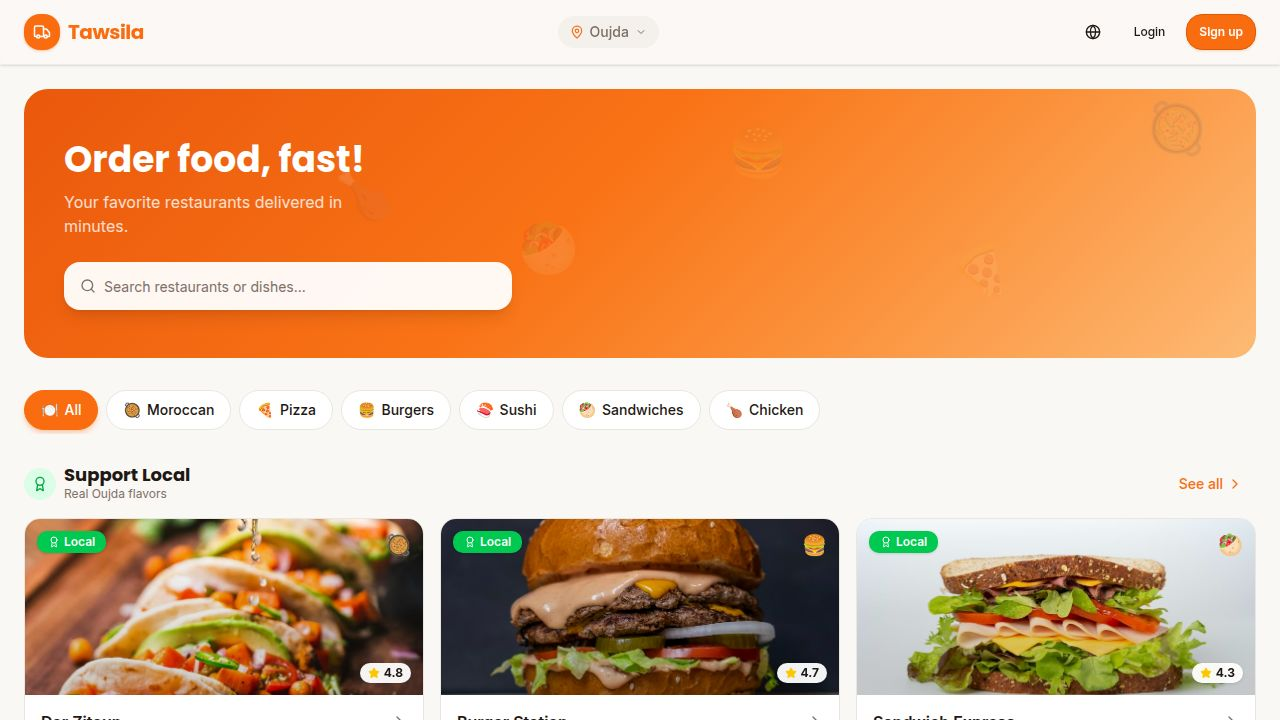
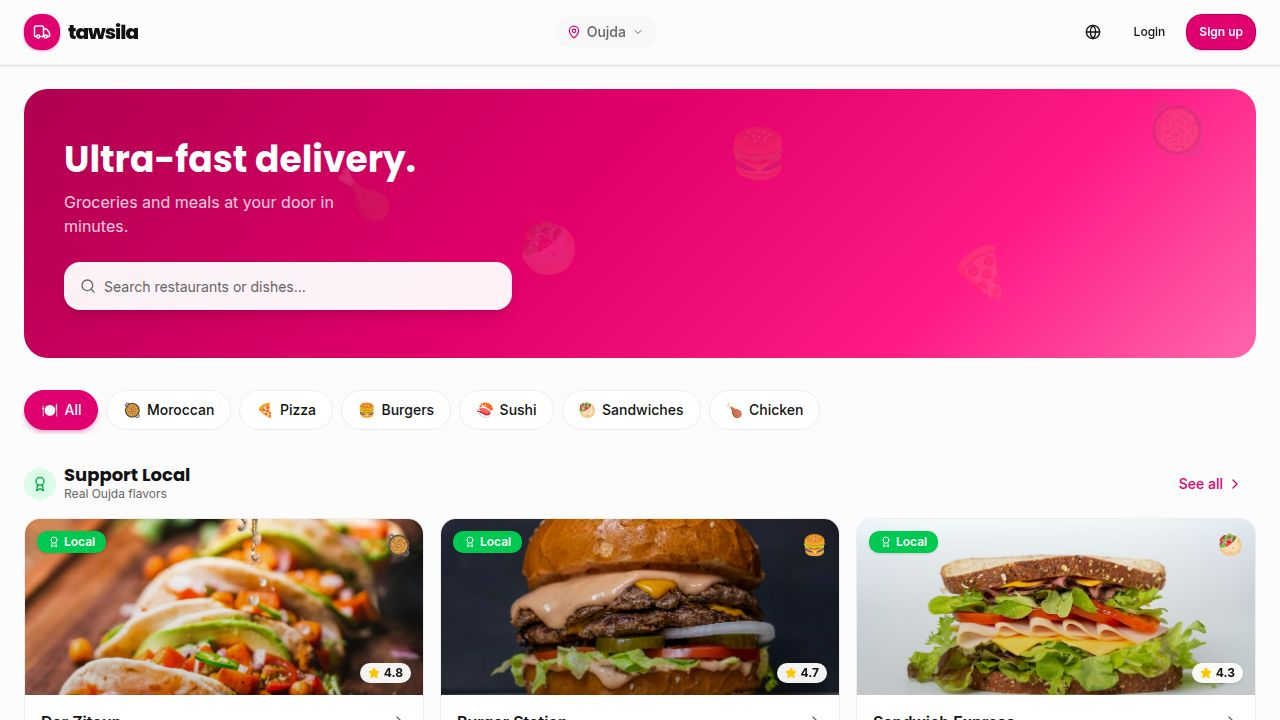
Rebrand Tawsila to Flink-style hot-pink visual identity
Task #2 — applied Flink quick-commerce visual identity across both
the food-delivery web app and the tawsila-mobile Expo app while
keeping the "Tawsila" product name.

Design tokens (light + dark modes):
- Primary brand color: hot pink/magenta — HSL 330 100% 44% (#E2006A)
  light, 330 100% 52% (#FF1A85) dark.
- Background: clean off-white (#FCFCFC) / near-black (#0F0F0F).
- Cards: pure white with very light grey borders for that crisp
  Flink card look.
- Accent: pink-tinted pale background (#FFE5F0) for badges/icons.
- Removed warm cream/Moroccan tones in favor of neutral whites/blacks.

Files changed:
- artifacts/food-delivery/src/index.css — light + dark CSS variables.
- artifacts/tawsila-mobile/constants/colors.ts — full palette swap,
  radius bumped 12→14 for slightly softer Flink-style corners.
- artifacts/food-delivery/src/components/Layout.tsx — bolder lowercase
  "tawsila" wordmark, rounded-2xl logo tile, removed orange icon tint.
- artifacts/food-delivery/src/components/RestaurantCard.tsx — placeholder
  gradient now pink instead of orange.
- artifacts/food-delivery/src/pages/home.tsx — hero gradient changed
  to magenta→pink, removed orange-only icon background class.
- artifacts/food-delivery/src/pages/{orders,restaurant,admin/*,restaurant-panel/*}.tsx —
  replaced bg-orange-* / text-orange-* utilities with primary/accent
  tokens or amber for "preparing" status badges.
- artifacts/food-delivery/src/components/DeliveryMap.tsx — driver pin pink.
[…]

diff --git a/artifacts/food-delivery/src/index.css b/artifacts/food-delivery/src/index.css
@@ -67,7 +67,7 @@
   --radius-xl: calc(var(--radius) + 4px);
 }
 
-/* LIGHT MODE — Warm Moroccan-inspired palette */
+/* LIGHT MODE — Quick-commerce hot-pink palette */
 :root {
   --button-outline: rgba(0,0,0, .10);
   --badge-outline: rgba(0,0,0, .05);
@@ -75,49 +75,49 @@
   --elevate-1: rgba(0,0,0, .03);
   --elevate-2: rgba(0,0,0, .08);
 
-  /* Warm cream background */
-  --background: 35 30% 97%;
-  --foreground: 20 20% 10%;
-  --border: 30 20% 88%;
+  /* Clean off-white background */
+  --background: 0 0% 99%;
+  --foreground: 0 0% 7%;
+  --border: 0 0% 92%;
 
-  /* Card: white with warm tint */
+  /* Card: pure white */
   --card: 0 0% 100%;
-  --card-foreground: 20 20% 10%;
-  --card-border: 30 15% 90%;
+  --card-foreground: 0 0% 7%;
+  --card-border: 0 0% 93%;
 
-  --sidebar: 35 25% 95%;
-  --sidebar-foreground: 20 20% 12%;
-  --sidebar-border: 30 20% 88%;
-  --sidebar-primary: 24 95% 52%;
+  --sidebar: 0 0% 98%;
+  --sidebar-foreground: 0 0% 10%;
+  --sidebar-border: 0 0% 92%;
+  --sidebar-primary: 330 100% 44%;
   --sidebar-primary-foreground: 0 0% 100%;
-  --sidebar-accent: 35 25% 90%;
-  --sidebar-accent-foreground: 20 20% 12%;
-  --sidebar-ring: 24 95% 52%;
+  --sidebar-accent: 0 0% 95%;
+  --sidebar-accent-foreground: 0 0% 10%;
+  --sidebar-ring: 330 100% 44%;
 
   --popover: 0 0% 100%;
-  --popover-foreground: 20 20% 10%;
-  --popover-border: 30 15% 90%;
+  --popover-foreground: 0 0% 7%;
+  --popover-border: 0 0% 93%;
 
-  /* Vibrant saffron/orange as primary */
-  --primary: 24 95% 52%;
+  /* Hot pink/magenta as primary */
+  --primary: 330 100% 44%;
   --primary-foreground: 0 0% 100%;
 
-  --secondary: 35 25% 92%;
-  --secondary-foreground: 20 20% 10%;
+  --secondary: 0 0% 96%;
+  --secondary-foreground: 0 0% 7%;
 
-  --muted: 35 20% 93%;
-  --muted-foreground: 20 10% 45%;
+  --muted: 0 0% 96%;
+  --muted-foreground: 0 0% 40%;
 
-  --accent: 24 80% 96%;
-  --accent-foreground: 24 95% 42%;
+  --accent: 330 100% 97%;
+  --accent-foreground: 330 100% 38%;
 
   --destructive: 0 84% 60%;
   --destructive-foreground: 0 0% 100%;
 
-  --input: 30 20% 88%;
-  --ring: 24 95% 52%;
+  --input: 0 0% 92%;
+  --ring: 330 100% 44%;
 
-  --chart-1: 24 95% 52%;
+  --chart-1: 330 100% 44%;
   --chart-2: 142 72% 42%;
   --chart-3: 200 80% 50%;
   --chart-4: 280 60% 55%;
@@ -162,46 +162,46 @@
   --elevate-1: rgba(255,255,255, .04);
   --elevate-2: rgba(255,255,255, .09);
 
-  --background: 20 15% 8%;
-  --foreground: 35 20% 95%;
-  --border: 20 10% 18%;
+  --background: 0 0% 6%;
+  --foreground: 0 0% 96%;
+  --border: 0 0% 16%;
 
-  --card: 20 12% 11%;
-  --card-foreground: 35 20% 95%;
-  --card-border: 20 10% 18%;
+  --card: 0 0% 9%;
+  --card-foreground: 0 0% 96%;
+  --card-border: 0 0% 16%;
 
-  --sidebar: 20 12% 9%;
-  --sidebar-foreground: 35 20% 92%;
-  --sidebar-border: 20 10% 16%;
-  --sidebar-primary: 24 95% 55%;
+  --sidebar: 0 0% 7%;
+  --sidebar-foreground: 0 0% 92%;
+  --sidebar-border: 0 0% 14%;
+  --sidebar-primary: 330 100% 52%;
   --sidebar-primary-foreground: 0 0% 100%;
-  --sidebar-accent: 20 12% 14%;
-  --sidebar-accent-foreground: 35 20% 92%;
-  --sidebar-ring: 24 95% 55%;
+  --sidebar-accent: 0 0% 12%;
+  --sidebar-accent-foreground: 0 0% 92%;
+  --sidebar-ring: 330 100% 52%;
 
-  --popover: 20 12% 11%;
-  --popover-foreground: 35 20% 95%;
-  --popover-border: 20 10% 18%;
+  --popover: 0 0% 9%;
+  --popover-foreground: 0 0% 96%;
+  --popover-border: 0 0% 16%;
 
-  --primary: 24 95% 55%;
+  --primary: 330 100% 52%;
   --primary-foreground: 0 0% 100%;
 
-  --secondary: 20 12% 15%;
-  --secondary-foreground: 35 20% 95%;
+  --secondary: 0 0% 13%;
+  --secondary-foreground: 0 0% 96%;
 
-  --muted: 20 10% 14%;
-  --muted-foreground: 20 10% 60%;
+  --muted: 0 0% 12%;
+  --muted-foreground: 0 0% 62%;
 
-  --accent: 24 40% 15%;
-  --accent-foreground: 24 95% 60%;
+  --accent: 330 50% 16%;
+  --accent-foreground: 330 100% 70%;
 
   --destructive: 0 75% 55%;
   --destructive-foreground: 0 0% 100%;
 
-  --input: 20 10% 20%;
-  --ring: 24 95% 55%;
+  --input: 0 0% 18%;
+  --ring: 330 100% 52%;
 
-  --chart-1: 24 95% 55%;
+  --chart-1: 330 100% 52%;
   --chart-2: 142 72% 45%;
   --chart-3: 200 80% 55%;
   --chart-4: 280 60% 60%;

diff --git a/artifacts/tawsila-mobile/constants/colors.ts b/artifacts/tawsila-mobile/constants/colors.ts
@@ -1,50 +1,50 @@
-// Moroccan-inspired palette — synced from food-delivery web artifact
+// Quick-commerce hot-pink palette — synced from food-delivery web artifact
 const colors = {
   light: {
-    text: "#1E1813",
-    tint: "#F97316",
-    background: "#FAF8F5",
-    foreground: "#1E1813",
+    text: "#121212",
+    tint: "#E2006A",
+    background: "#FCFCFC",
+    foreground: "#121212",
     card: "#FFFFFF",
-    cardForeground: "#1E1813",
-    primary: "#F97316",
+    cardForeground: "#121212",
+    primary: "#E2006A",
     primaryForeground: "#FFFFFF",
-    secondary: "#EDE7DF",
-    secondaryForeground: "#1E1813",
-    muted: "#F0EDE8",
-    mutedForeground: "#7D726B",
-    accent: "#FEF0E7",
-    accentForeground: "#C65E0F",
+    secondary: "#F5F5F5",
+    secondaryForeground: "#121212",
+    muted: "#F5F5F5",
+    mutedForeground: "#666666",
+    accent: "#FFE5F0",
+    accentForeground: "#B0004F",
     destructive: "#EF4444",
     destructiveForeground: "#FFFFFF",
-    border: "#E4D8CE",
-    input: "#E4D8CE",
+    border: "#EBEBEB",
+    input: "#EBEBEB",
     success: "#22C55E",
     warning: "#F59E0B",
   },
   dark: {
-    text: "#F0EDE8",
-    tint: "#F97316",
-    background: "#1A1510",
-    foreground: "#F0EDE8",
-    card: "#241E18",
-    cardForeground: "#F0EDE8",
-    primary: "#F97316",
+    text: "#F5F5F5",
+    tint: "#FF1A85",
+    background: "#0F0F0F",
+    foreground: "#F5F5F5",
+    card: "#171717",
+    cardForeground: "#F5F5F5",
+    primary: "#FF1A85",
     primaryForeground: "#FFFFFF",
-    secondary: "#2D2720",
-    secondaryForeground: "#F0EDE8",
-    muted: "#2D2720",
-    mutedForeground: "#9E968F",
-    accent: "#3D2A18",
-    accentForeground: "#FDB97E",
+    secondary: "#212121",
+    secondaryForeground: "#F5F5F5",
+    muted: "#1F1F1F",
+    mutedForeground: "#9E9E9E",
+    accent: "#3D0E26",
+    accentForeground: "#FF6BB0",
     destructive: "#EF4444",
     destructiveForeground: "#FFFFFF",
-    border: "#3D3530",
-    input: "#3D3530",
+    border: "#2A2A2A",
+    input: "#2A2A2A",
     success: "#22C55E",
     warning: "#F59E0B",
   },
-  radius: 12,
+  radius: 14,
 };
 
 export default colors;

diff --git a/artifacts/food-delivery/src/components/Layout.tsx b/artifacts/food-delivery/src/components/Layout.tsx
@@ -49,11 +49,11 @@ export function Layout({ children }: LayoutProps) {
       <header className="sticky top-0 z-50 bg-background/85 backdrop-blur-xl border-b border-border/50 shadow-sm">
         <div className="max-w-7xl mx-auto px-4 sm:px-6 h-16 flex items-center justify-between gap-4">
           {/* Logo */}
-          <Link href="/" className="flex items-center gap-2 font-display font-bold text-xl text-primary shrink-0">
-            <div className="w-9 h-9 bg-primary rounded-xl flex items-center justify-center shadow-sm shadow-primary/30">
-              <Truck className="w-4.5 h-4.5 text-white" style={{ width: "18px", height: "18px" }} />
+          <Link href="/" className="flex items-center gap-2 font-display font-extrabold text-xl text-primary shrink-0">
+            <div className="w-9 h-9 bg-primary rounded-2xl flex items-center justify-center shadow-sm shadow-primary/30">
+              <Truck className="text-white" style={{ width: "18px", height: "18px" }} />
             </div>
-            <span className="tracking-tight">Tawsila</span>
+            <span className="tracking-tighter lowercase text-foreground">tawsila</span>
           </Link>
 
           {/* Location pill */}
@@ -136,7 +136,7 @@ export function Layout({ children }: LayoutProps) {
                     <Home className="w-4 h-4 text-primary" /> {t("nav.customerView")}
                   </DropdownMenuItem>
                   <DropdownMenuItem onClick={() => setLocation("/restaurant/dashboard")} className="rounded-xl gap-2.5 py-2.5" data-testid="menu-item-restaurant">
-                    <Store className="w-4 h-4 text-orange-500" /> {t("nav.restaurantPanel")}
+                    <Store className="w-4 h-4 text-primary" /> {t("nav.restaurantPanel")}
                   </DropdownMenuItem>
                   <DropdownMenuItem onClick={() => setLocation("/driver/dashboard")} className="rounded-xl gap-2.5 py-2.5" data-testid="menu-item-driver">
                     <Truck className="w-4 h-4 text-blue-500" /> {t("nav.driverApp")}

diff --git a/artifacts/food-delivery/src/pages/restaurant-panel/dashboard.tsx b/artifacts/food-delivery/src/pages/restaurant-panel/dashboard.tsx
@@ -12,7 +12,7 @@ import { useTranslation } from "react-i18next";
 const statusColors: Record<string, string> = {
   pending: "bg-yellow-100 text-yellow-700 border-yellow-200",
   accepted: "bg-blue-100 text-blue-700 border-blue-200",
-  preparing: "bg-orange-100 text-orange-700 border-orange-200",
+  preparing: "bg-amber-100 text-amber-700 border-amber-200 dark:bg-amber-900/30 dark:text-amber-400 dark:border-amber-800/40",
   ready: "bg-purple-100 text-purple-700 border-purple-200",
   picked_up: "bg-indigo-100 text-indigo-700 border-indigo-200",
   delivered: "bg-green-100 text-green-700 border-green-200",
@@ -48,7 +48,7 @@ function ActionButtons({ order, onAction }: {
       return (
         <Button
           size="sm"
-          className="bg-orange-500 hover:bg-orange-600 text-white gap-1.5 font-semibold shrink-0"
+          className="bg-primary hover:bg-primary/90 text-white gap-1.5 font-semibold shrink-0"
           onClick={() => onAction(order.id, "preparing")}
         >
           <ChefHat className="w-4 h-4" /> Start Preparing
@@ -233,7 +233,7 @@ export default function RestaurantDashboardPage() {
           )}
         </div>
         <div className="bg-card rounded-2xl border border-card-border p-4">
-          <Clock className="w-5 h-5 text-orange-600 mb-2" />
+          <Clock className="w-5 h-5 text-primary mb-2" />
           <p className="font-bold text-2xl">{myRestaurant.deliveryTime ?? "—"}</p>
           <p className="text-xs text-muted-foreground">{t("restaurantPanel.avgDelivery")}</p>
         </div>

diff --git a/artifacts/food-delivery/src/pages/home.tsx b/artifacts/food-delivery/src/pages/home.tsx
@@ -83,7 +83,7 @@ export default function HomePage() {
         animate={{ opacity: 1, y: 0 }}
         transition={{ duration: 0.4 }}
         className="relative rounded-3xl overflow-hidden"
-        style={{ background: "linear-gradient(135deg, #EA580C 0%, #F97316 45%, #FB923C 70%, #FDBA74 100%)" }}
+        style={{ background: "linear-gradient(135deg, #B0004F 0%, #E2006A 45%, #FF1A85 75%, #FF66AC 100%)" }}
       >
         {/* Decorative food emojis */}
         <div className="absolute inset-0 pointer-events-none overflow-hidden">
@@ -208,7 +208,7 @@ export default function HomePage() {
       {/* All / Featured Restaurants */}
       <section>
         <div className="flex items-center gap-2 mb-4">
-          <div className="w-8 h-8 rounded-2xl bg-orange-100 dark:bg-orange-900/30 flex items-center justify-center">
+          <div className="w-8 h-8 rounded-2xl bg-accent flex items-center justify-center">
             {search || activeCategory !== "All" ? (
               <Sparkles className="w-4 h-4 text-primary" />
             ) : (

diff --git a/artifacts/food-delivery/src/pages/admin/dashboard.tsx b/artifacts/food-delivery/src/pages/admin/dashboard.tsx
@@ -50,7 +50,7 @@ export default function AdminDashboardPage() {
         {usersLoading ? [...Array(4)].map((_, i) => <Skeleton key={i} className="h-24 rounded-2xl" />) : (
           <>
             <StatCard label={t("admin.users")} value={users?.length ?? 0} icon={Users} color="bg-blue-100 text-blue-600 dark:bg-blue-900/30 dark:text-blue-400" />
-            <StatCard label={t("admin.restaurants")} value={restaurants?.length ?? 0} icon={Store} color="bg-orange-100 text-orange-600 dark:bg-orange-900/30 dark:text-orange-400" />
+            <StatCard label={t("admin.restaurants")} value={restaurants?.length ?? 0} icon={Store} color="bg-accent text-accent-foreground" />
             <StatCard label={t("admin.orders")} value={orders?.length ?? 0} icon={Package} color="bg-purple-100 text-purple-600 dark:bg-purple-900/30 dark:text-purple-400" />
             <StatCard label={t("admin.revenue")} value={totalRevenue.toFixed(0)} icon={TrendingUp} color="bg-green-100 text-green-600 dark:bg-green-900/30 dark:text-green-400" />
           </>

diff --git a/artifacts/tawsila-mobile/app/cart.tsx b/artifacts/tawsila-mobile/app/cart.tsx
@@ -212,7 +212,7 @@ export default function CartScreen() {
             styles.orderBtn,
             {
               backgroundColor: orderDisabled ? colors.muted : colors.primary,
-              shadowColor: orderDisabled ? "transparent" : "#F97316",
+              shadowColor: orderDisabled ? "transparent" : "#E2006A",
             },
           ]}
           onPress={handlePlaceOrder}
@@ -294,7 +294,7 @@ const styles = StyleSheet.create({
   emptyText: { fontSize: 14, fontFamily: "Inter_400Regular", textAlign: "center" },
   browseBtn: {
     paddingHorizontal: 28, paddingVertical: 14, borderRadius: 14, marginTop: 8,
-    shadowColor: "#F97316", shadowOffset: { width: 0, height: 4 }, shadowOpacity: 0.3, shadowRadius: 12, elevation: 6,
+    shadowColor: "#E2006A", shadowOffset: { width: 0, height: 4 }, shadowOpacity: 0.3, shadowRadius: 12, elevation: 6,
   },
   browseBtnText: { color: "#fff", fontSize: 15, fontFamily: "Inter_600SemiBold" },
 });

diff --git a/artifacts/tawsila-mobile/app/(tabs)/index.tsx b/artifacts/tawsila-mobile/app/(tabs)/index.tsx
@@ -38,8 +38,8 @@ export default function HomeScreen() {
       <View style={[styles.header, { paddingTop: insets.top + 16 + webTopPad, paddingBottom: 12, backgroundColor: colors.background, borderBottomColor: colors.border }]}>
         <View style={styles.headerTop}>
           <View>
-            <Text style={[styles.greeting, { color: colors.mutedForeground }]}>Good day 👋</Text>
-            <Text style={[styles.name, { color: colors.foreground }]}>{user?.name ?? "Guest"}</Text>
+            <Text style={[styles.greeting, { color: colors.primary }]}>Ultra-fast delivery</Text>
+            <Text style={[styles.name, { color: colors.foreground }]}>Hi, {user?.name ?? "Guest"} 👋</Text>
           </View>
           <TouchableOpacity onPress={() => router.push("/cart")} style={styles.cartBtn}>
             <Ionicons name="bag-outline" size={24} color={colors.foreground} />

diff --git a/artifacts/tawsila-mobile/app/(tabs)/profile.tsx b/artifacts/tawsila-mobile/app/(tabs)/profile.tsx
@@ -132,6 +132,6 @@ const styles = StyleSheet.create({
   rowLabel: { flex: 1, fontSize: 15, fontFamily: "Inter_500Medium" },
   signInTitle: { fontSize: 20, fontFamily: "Inter_600SemiBold", marginTop: 12 },
   signInSub: { fontSize: 14, fontFamily: "Inter_400Regular", textAlign: "center" },
-  signInBtn: { paddingHorizontal: 40, paddingVertical: 14, borderRadius: 14, marginTop: 8, shadowColor: "#F97316", shadowOffset: { width: 0, height: 4 }, shadowOpacity: 0.3, shadowRadius: 12, elevation: 6 },
+  signInBtn: { paddingHorizontal: 40, paddingVertical: 14, borderRadius: 14, marginTop: 8, shadowColor: "#E2006A", shadowOffset: { width: 0, height: 4 }, shadowOpacity: 0.3, shadowRadius: 12, elevation: 6 },
   signInBtnText: { color: "#fff", fontSize: 16, fontFamily: "Inter_600SemiBold" },
 });

diff --git a/artifacts/tawsila-mobile/components/DriverMap.tsx b/artifacts/tawsila-mobile/components/DriverMap.tsx
@@ -22,7 +22,7 @@ function buildHtml(driverLat: number, driverLng: number, destLat?: number, destL
     destLat != null && destLng != null
       ? `
     var destIcon = L.divIcon({
-      html: '<div style="background:#F97316;width:28px;height:28px;border-radius:50%;border:3px solid #fff;box-shadow:0 2px 8px rgba(0,0,0,0.3);display:flex;align-items:center;justify-content:center;font-size:14px;">📍</div>',
+      html: '<div style="background:#E2006A;width:28px;height:28px;border-radius:50%;border:3px solid #fff;box-shadow:0 2px 8px rgba(0,0,0,0.3);display:flex;align-items:center;justify-content:center;font-size:14px;">📍</div>',
       className: '', iconAnchor: [14, 14]
     });
     L.marker([${destLat}, ${destLng}], {icon: destIcon}).addTo(map)

diff --git a/artifacts/food-delivery/src/pages/orders.tsx b/artifacts/food-delivery/src/pages/orders.tsx
@@ -11,7 +11,7 @@ import { useTranslation } from "react-i18next";
 const statusColors: Record<string, string> = {
   pending: "bg-yellow-100 text-yellow-700 dark:bg-yellow-900/30 dark:text-yellow-400",
   accepted: "bg-blue-100 text-blue-700 dark:bg-blue-900/30 dark:text-blue-400",
-  preparing: "bg-orange-100 text-orange-700 dark:bg-orange-900/30 dark:text-orange-400",
+  preparing: "bg-amber-100 text-amber-700 dark:bg-amber-900/30 dark:text-amber-400",
   ready: "bg-purple-100 text-purple-700 dark:bg-purple-900/30 dark:text-purple-400",
   picked_up: "bg-indigo-100 text-indigo-700 dark:bg-indigo-900/30 dark:text-indigo-400",
   delivered: "bg-green-100 text-green-700 dark:bg-green-900/30 dark:text-green-400",

diff --git a/artifacts/tawsila-mobile/components/OrderCard.tsx b/artifacts/tawsila-mobile/components/OrderCard.tsx
@@ -8,7 +8,7 @@ const STATUS_CONFIG: Record<string, { label: string; color: string; icon: string
   accepted: { label: "Accepted", color: "#3B82F6", icon: "checkmark-circle-outline" },
   preparing: { label: "Preparing", color: "#8B5CF6", icon: "restaurant-outline" },
   ready: { label: "Ready", color: "#10B981", icon: "bag-check-outline" },
-  picked_up: { label: "On the way", color: "#F97316", icon: "bicycle-outline" },
+  picked_up: { label: "On the way", color: "#E2006A", icon: "bicycle-outline" },
   delivered: { label: "Delivered", color: "#22C55E", icon: "checkmark-done-circle-outline" },
   cancelled: { label: "Cancelled", color: "#EF4444", icon: "close-circle-outline" },
 };
